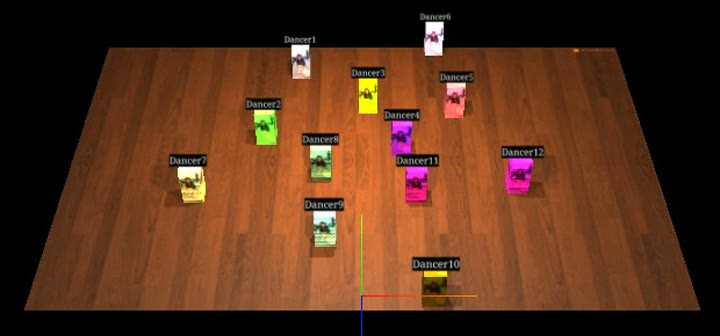
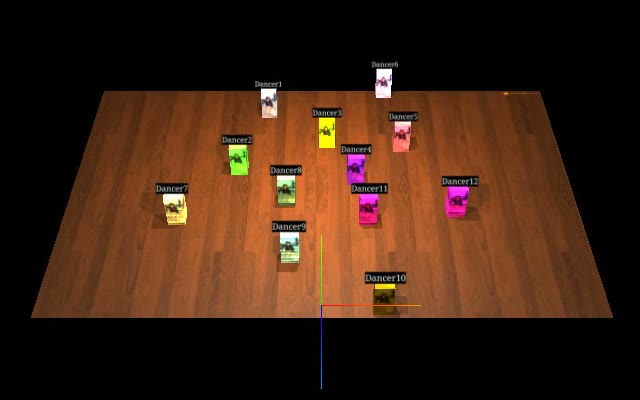
Re-cut Dance Studio GIF at 16:10 to fit the laptop screen

diff --git a/draft/index.html b/draft/index.html
@@ -17,7 +17,7 @@
 <link rel="preconnect" href="https://fonts.googleapis.com">
 <link rel="preconnect" href="https://fonts.gstatic.com" crossorigin>
 <link href="https://fonts.googleapis.com/css2?family=Instrument+Sans:wght@400..700&amp;family=Reenie+Beanie&amp;display=swap" rel="stylesheet">
-<link rel="stylesheet" href="style.css?v=24">
+<link rel="stylesheet" href="style.css?v=25">
 <script>
   try { var t = localStorage.getItem('jl-theme'); if (t && t !== 'teal') document.documentElement.dataset.theme = t; } catch (e) {}
 </script>
@@ -335,7 +335,7 @@
         <div class="laptop__screen">
           <picture>
             <source media="(prefers-reduced-motion: reduce)" srcset="img/dance-studio-spiral.jpg">
-            <img src="img/dance-studio-spiral.gif" width="640" height="299" loading="lazy" alt="Dance Studio playing back a 12-dancer spiral: dancers move along their paths between formations">
+            <img src="img/dance-studio-spiral.gif" width="560" height="350" loading="lazy" alt="Dance Studio playing back a 12-dancer spiral: dancers move along their paths between formations">
           </picture>
         </div>
         <div class="laptop__base" aria-hidden="true"></div>

diff --git a/draft/style.css b/draft/style.css
@@ -528,3 +528,4 @@ body { transition: background-color 300ms ease-out, color 300ms ease-out; }
 .job__links a { display: inline-flex; align-items: center; min-height: 44px; padding-block: 0; }
 .site-footer a { display: inline-flex; align-items: center; min-height: 44px; }
 @media (min-width: 901px) and (max-width: 1180px) { .hero__title { font-size: clamp(88px, 10vw, 120px); } }
+.laptop__screen > picture img { aspect-ratio: 16 / 10; object-fit: cover; }
